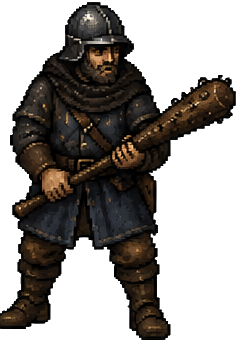
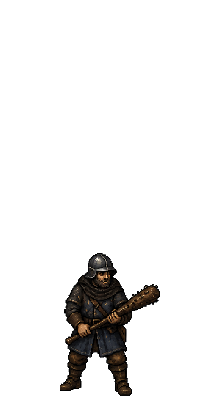
pano: ополчение позади стражи (~avg 1dЛ), кучно и мельче
Счёт = round((militia+1)/2); спрайты militia/01–08; meta ⚔ ~N.

diff --git a/player.html b/player.html
@@ -1320,6 +1320,14 @@ function panoGuardCount(settlement){
   return unitSum||0;
 }
 
+// Ополчение на панораме: среднее 1d(Л) = (militia+1)/2. militia = число лояльных домов.
+function panoMilitiaCount(settlement){
+  if(!settlement||!settlement.might) return 0;
+  const mil=parseInt(settlement.might.militia,10)||0;
+  if(mil<=0) return 0;
+  return Math.max(1, Math.round((mil+1)/2));
+}
+
 function panoBuildingsFor(npName, settlement) {
   const local = (settlement && settlement.buildings) ? settlement.buildings : [];
   const ext = ((currentData && currentData.external_buildings) || []).filter(e => e.host === npName);
@@ -1335,9 +1343,10 @@ function openPano(npName, settlement, terrainHint) {
   const shopsMeta=panoEcoCount(settlement, ['лавк']);
   const tradersMeta=panoEcoCount(settlement, ['торговц']);
   const guardsMeta=panoGuardCount(settlement);
+  const militiaMeta=panoMilitiaCount(settlement);
   const pop=(settlement&&settlement.population)?settlement.population:null;
   const tLabel={'t-mountain':'Горы','t-forest':'Лес','t-swamp':'Болото','t-ocean':'Море','t-skerry':'Шхеры','t-evil':'Опасная зона'}[terrainHint]||'';
-  const meta=[pop?`👥 ${pop}`:null,tLabel||null,housesMeta?`🏠 ${housesMeta}`:null,shopsMeta?`🏪 ${shopsMeta}`:null,tradersMeta?`🧳 ${tradersMeta}`:null,guardsMeta?`🛡 ${guardsMeta}`:null,bldCount?`🏛 ${bldCount}`:null].filter(Boolean).join(' · ');
+  const meta=[pop?`👥 ${pop}`:null,tLabel||null,housesMeta?`🏠 ${housesMeta}`:null,shopsMeta?`🏪 ${shopsMeta}`:null,tradersMeta?`🧳 ${tradersMeta}`:null,guardsMeta?`🛡 ${guardsMeta}`:null,militiaMeta?`⚔ ~${militiaMeta}`:null,bldCount?`🏛 ${bldCount}`:null].filter(Boolean).join(' · ');
   const mEl=document.getElementById('pano-np-meta'); if(mEl) mEl.textContent=meta;
   document.getElementById('pano-overlay').classList.add('open');
   renderPano(npName, settlement, terrainHint, currentPanoSeasonName);
@@ -1378,6 +1387,7 @@ function renderPano(npName, settlement, terrainHint, seasonName) {
   const HOUSE_SPRITES=['assets/houses/01.png','assets/houses/02.png','assets/houses/03.png','assets/houses/04.png','assets/houses/05.png','assets/houses/06.png','assets/houses/07.png','assets/houses/08.png'];
   const SHOP_SPRITES=['assets/shops/01.png','assets/shops/02.png','assets/shops/03.png','assets/shops/04.png','assets/shops/05.png','assets/shops/06.png','assets/shops/07.png','assets/shops/08.png'];
   const GUARD_SPRITES=['assets/guards/01.png?v=5','assets/guards/02.png?v=5','assets/guards/03.png?v=5','assets/guards/04.png?v=5','assets/guards/05.png?v=5','assets/guards/06.png?v=5','assets/guards/07.png?v=5','assets/guards/08.png?v=5','assets/guards/09.png?v=5','assets/guards/10.png?v=5','assets/guards/11.png?v=5','assets/guards/12.png?v=5','assets/guards/13.png?v=5','assets/guards/14.png?v=5','assets/guards/15.png?v=5','assets/guards/16.png?v=5'];
+  const MILITIA_SPRITES=['assets/militia/01.png?v=1','assets/militia/02.png?v=1','assets/militia/03.png?v=1','assets/militia/04.png?v=1','assets/militia/05.png?v=1','assets/militia/06.png?v=1','assets/militia/07.png?v=1','assets/militia/08.png?v=1'];
   function miniHut(x,y,sc){
     const bw=15*sc, bh=bw*1.22;
     const src=HOUSE_SPRITES[Math.floor(rng()*HOUSE_SPRITES.length)];
@@ -1392,6 +1402,12 @@ function renderPano(npName, settlement, terrainHint, seasonName) {
     // Ассеты нормализованы 220×400 (одинаковый торс) — фикс. высота + тот же аспект.
     const bh=104*sc, bw=bh*0.55;
     const src=GUARD_SPRITES[Math.floor(rng()*GUARD_SPRITES.length)];
+    return `<image href="${src}" x="${x-bw/2}" y="${y-bh}" width="${bw}" height="${bh}" preserveAspectRatio="xMidYMax meet" pointer-events="none"/>`;
+  }
+  function miniMilitia(x,y,sc){
+    // Меньше стражи (~½), тот же аспект холста 220×400.
+    const bh=50*sc, bw=bh*0.55;
+    const src=MILITIA_SPRITES[Math.floor(rng()*MILITIA_SPRITES.length)];
     return `<image href="${src}" x="${x-bw/2}" y="${y-bh}" width="${bw}" height="${bh}" preserveAspectRatio="xMidYMax meet" pointer-events="none"/>`;
   }
   // Сетка с джиттером: при большом числе дворов мельчаем масштаб, чтобы все влезли.
@@ -1455,9 +1471,37 @@ function renderPano(npName, settlement, terrainHint, seasonName) {
       }
     }
   }
+  // Ополчение: среднее 1d(Л), позади стражи, мельче и кучнее (центр, 1–2 ряда).
+  const _militia=[];
+  const militiaCount=panoMilitiaCount(settlement);
+  {
+    const n=militiaCount;
+    if(n>0){
+      const rows=n>10?2:1;
+      const cols=Math.ceil(n/rows);
+      const gap=18;
+      const packW=Math.min(VW*0.62, Math.max(80, cols*gap));
+      const left=(VW-packW)/2;
+      const baseY=VH-38;
+      const scMul=1.0;
+      for(let k=0;k<n;k++){
+        const row=Math.floor(k/cols), col=k%cols;
+        const inRow=Math.min(cols, n-row*cols);
+        const rowW=Math.min(packW, Math.max(40, inRow*gap));
+        const rowLeft=(VW-rowW)/2;
+        const t=inRow===1?0.5:(col+0.5)/inRow;
+        const jx=(rng()-0.5)*4;
+        const hx=rowLeft+t*rowW+jx;
+        const hy=baseY-row*14;
+        _militia.push({hx,hy,hsc:scMul});
+      }
+    }
+  }
   _huts.sort((a,b)=>a.hy-b.hy);
   _guards.sort((a,b)=>a.hy-b.hy);
+  _militia.sort((a,b)=>a.hy-b.hy);
   let village=''; _huts.forEach(h=>{ village+=h.kind==='shop'?miniShop(h.hx,h.hy,h.hsc):miniHut(h.hx,h.hy,h.hsc); });
+  let militiaSvg=''; _militia.forEach(g=>{ militiaSvg+=miniMilitia(g.hx,g.hy,g.hsc); });
   let guardsSvg=''; _guards.forEach(g=>{ guardsSvg+=miniGuard(g.hx,g.hy,g.hsc); });
   const water = terrain.match(/t-ocean|t-skerry|мор|〰|шхер/) ? `<rect x="0" y="${groundY-8}" width="${VW}" height="30" fill="#3f7fb8" opacity="0.85" pointer-events="none"/><path d="M 0 ${groundY+8} q 40 -5 80 0 t 80 0 t 80 0 t 80 0 t 80 0 t 80 0 t 80 0 t 80 0 t 80 0 t 80 0" fill="none" stroke="#cfe6f2" stroke-width="1.5" opacity="0.6" pointer-events="none"/>` : '';
 
@@ -1538,6 +1582,7 @@ function renderPano(npName, settlement, terrainHint, seasonName) {
   ${foreground}
   ${tufts}
   ${trees}
+  ${militiaSvg}
   ${guardsSvg}
   ${labelSvg}
   ${emptyMsg}

diff --git a/map.html b/map.html
@@ -1709,6 +1709,14 @@ function panoGuardCount(settlement){
   return unitSum||0;
 }
 
+// Ополчение на панораме: среднее 1d(Л) = (militia+1)/2. militia = число лояльных домов.
+function panoMilitiaCount(settlement){
+  if(!settlement||!settlement.might) return 0;
+  const mil=parseInt(settlement.might.militia,10)||0;
+  if(mil<=0) return 0;
+  return Math.max(1, Math.round((mil+1)/2));
+}
+
 function panoBuildingsFor(npName, settlement) {
   const local = (settlement && settlement.buildings) ? settlement.buildings : [];
   const ext = (currentExternals || []).filter(e => e.host === npName);
@@ -1724,9 +1732,10 @@ function openPano(npName, settlement, terrainHint) {
   const shopsMeta=panoEcoCount(settlement, ['лавк']);
   const tradersMeta=panoEcoCount(settlement, ['торговц']);
   const guardsMeta=panoGuardCount(settlement);
+  const militiaMeta=panoMilitiaCount(settlement);
   const pop=(settlement&&settlement.population)?settlement.population:null;
   const tLabel={'t-mountain':'Горы','t-forest':'Лес','t-swamp':'Болото','t-ocean':'Море','t-skerry':'Шхеры','t-evil':'Опасная зона'}[terrainHint]||'';
-  const meta=[pop?`👥 ${pop}`:null,tLabel||null,housesMeta?`🏠 ${housesMeta}`:null,shopsMeta?`🏪 ${shopsMeta}`:null,tradersMeta?`🧳 ${tradersMeta}`:null,guardsMeta?`🛡 ${guardsMeta}`:null,bldCount?`🏛 ${bldCount}`:null].filter(Boolean).join(' · ');
+  const meta=[pop?`👥 ${pop}`:null,tLabel||null,housesMeta?`🏠 ${housesMeta}`:null,shopsMeta?`🏪 ${shopsMeta}`:null,tradersMeta?`🧳 ${tradersMeta}`:null,guardsMeta?`🛡 ${guardsMeta}`:null,militiaMeta?`⚔ ~${militiaMeta}`:null,bldCount?`🏛 ${bldCount}`:null].filter(Boolean).join(' · ');
   const mEl=document.getElementById('pano-np-meta'); if(mEl) mEl.textContent=meta;
   document.getElementById('pano-overlay').classList.add('open');
   renderPano(npName, settlement, terrainHint, currentPanoSeasonName);
@@ -1767,6 +1776,7 @@ function renderPano(npName, settlement, terrainHint, seasonName) {
   const HOUSE_SPRITES=['assets/houses/01.png','assets/houses/02.png','assets/houses/03.png','assets/houses/04.png','assets/houses/05.png','assets/houses/06.png','assets/houses/07.png','assets/houses/08.png'];
   const SHOP_SPRITES=['assets/shops/01.png','assets/shops/02.png','assets/shops/03.png','assets/shops/04.png','assets/shops/05.png','assets/shops/06.png','assets/shops/07.png','assets/shops/08.png'];
   const GUARD_SPRITES=['assets/guards/01.png?v=5','assets/guards/02.png?v=5','assets/guards/03.png?v=5','assets/guards/04.png?v=5','assets/guards/05.png?v=5','assets/guards/06.png?v=5','assets/guards/07.png?v=5','assets/guards/08.png?v=5','assets/guards/09.png?v=5','assets/guards/10.png?v=5','assets/guards/11.png?v=5','assets/guards/12.png?v=5','assets/guards/13.png?v=5','assets/guards/14.png?v=5','assets/guards/15.png?v=5','assets/guards/16.png?v=5'];
+  const MILITIA_SPRITES=['assets/militia/01.png?v=1','assets/militia/02.png?v=1','assets/militia/03.png?v=1','assets/militia/04.png?v=1','assets/militia/05.png?v=1','assets/militia/06.png?v=1','assets/militia/07.png?v=1','assets/militia/08.png?v=1'];
   function miniHut(x,y,sc){
     const bw=15*sc, bh=bw*1.22;
     const src=HOUSE_SPRITES[Math.floor(rng()*HOUSE_SPRITES.length)];
@@ -1781,6 +1791,12 @@ function renderPano(npName, settlement, terrainHint, seasonName) {
     // Ассеты нормализованы 220×400 (одинаковый торс) — фикс. высота + тот же аспект.
     const bh=104*sc, bw=bh*0.55;
     const src=GUARD_SPRITES[Math.floor(rng()*GUARD_SPRITES.length)];
+    return `<image href="${src}" x="${x-bw/2}" y="${y-bh}" width="${bw}" height="${bh}" preserveAspectRatio="xMidYMax meet" pointer-events="none"/>`;
+  }
+  function miniMilitia(x,y,sc){
+    // Меньше стражи (~½), тот же аспект холста 220×400.
+    const bh=50*sc, bw=bh*0.55;
+    const src=MILITIA_SPRITES[Math.floor(rng()*MILITIA_SPRITES.length)];
     return `<image href="${src}" x="${x-bw/2}" y="${y-bh}" width="${bw}" height="${bh}" preserveAspectRatio="xMidYMax meet" pointer-events="none"/>`;
   }
   // Сетка с джиттером: при большом числе дворов мельчаем масштаб, чтобы все влезли.
@@ -1844,9 +1860,37 @@ function renderPano(npName, settlement, terrainHint, seasonName) {
       }
     }
   }
+  // Ополчение: среднее 1d(Л), позади стражи, мельче и кучнее (центр, 1–2 ряда).
+  const _militia=[];
+  const militiaCount=panoMilitiaCount(settlement);
+  {
+    const n=militiaCount;
+    if(n>0){
+      const rows=n>10?2:1;
+      const cols=Math.ceil(n/rows);
+      const gap=18;
+      const packW=Math.min(VW*0.62, Math.max(80, cols*gap));
+      const left=(VW-packW)/2;
+      const baseY=VH-38;
+      const scMul=1.0;
+      for(let k=0;k<n;k++){
+        const row=Math.floor(k/cols), col=k%cols;
+        const inRow=Math.min(cols, n-row*cols);
+        const rowW=Math.min(packW, Math.max(40, inRow*gap));
+        const rowLeft=(VW-rowW)/2;
+        const t=inRow===1?0.5:(col+0.5)/inRow;
+        const jx=(rng()-0.5)*4;
+        const hx=rowLeft+t*rowW+jx;
+        const hy=baseY-row*14;
+        _militia.push({hx,hy,hsc:scMul});
+      }
+    }
+  }
   _huts.sort((a,b)=>a.hy-b.hy);
   _guards.sort((a,b)=>a.hy-b.hy);
+  _militia.sort((a,b)=>a.hy-b.hy);
   let village=''; _huts.forEach(h=>{ village+=h.kind==='shop'?miniShop(h.hx,h.hy,h.hsc):miniHut(h.hx,h.hy,h.hsc); });
+  let militiaSvg=''; _militia.forEach(g=>{ militiaSvg+=miniMilitia(g.hx,g.hy,g.hsc); });
   let guardsSvg=''; _guards.forEach(g=>{ guardsSvg+=miniGuard(g.hx,g.hy,g.hsc); });
   const water = terrain.match(/t-ocean|t-skerry|мор|〰|шхер/) ? `<rect x="0" y="${groundY-8}" width="${VW}" height="30" fill="#3f7fb8" opacity="0.85" pointer-events="none"/><path d="M 0 ${groundY+8} q 40 -5 80 0 t 80 0 t 80 0 t 80 0 t 80 0 t 80 0 t 80 0 t 80 0 t 80 0 t 80 0" fill="none" stroke="#cfe6f2" stroke-width="1.5" opacity="0.6" pointer-events="none"/>` : '';
 
@@ -1927,6 +1971,7 @@ function renderPano(npName, settlement, terrainHint, seasonName) {
   ${foreground}
   ${tufts}
   ${trees}
+  ${militiaSvg}
   ${guardsSvg}
   ${labelSvg}
   ${emptyMsg}
